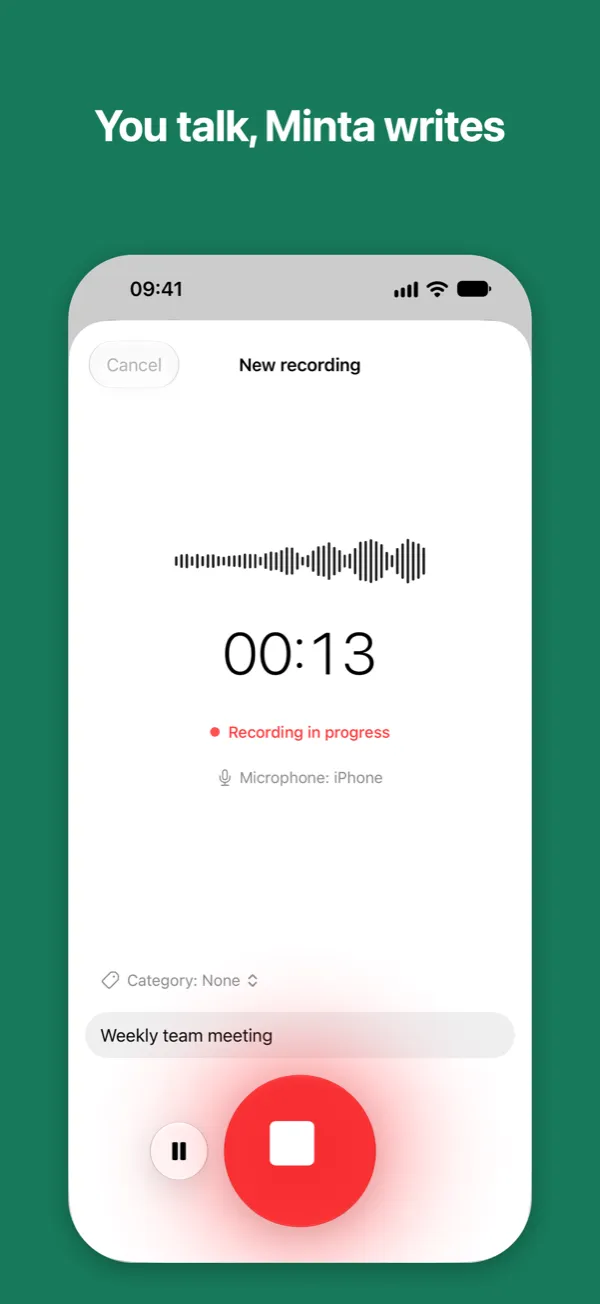
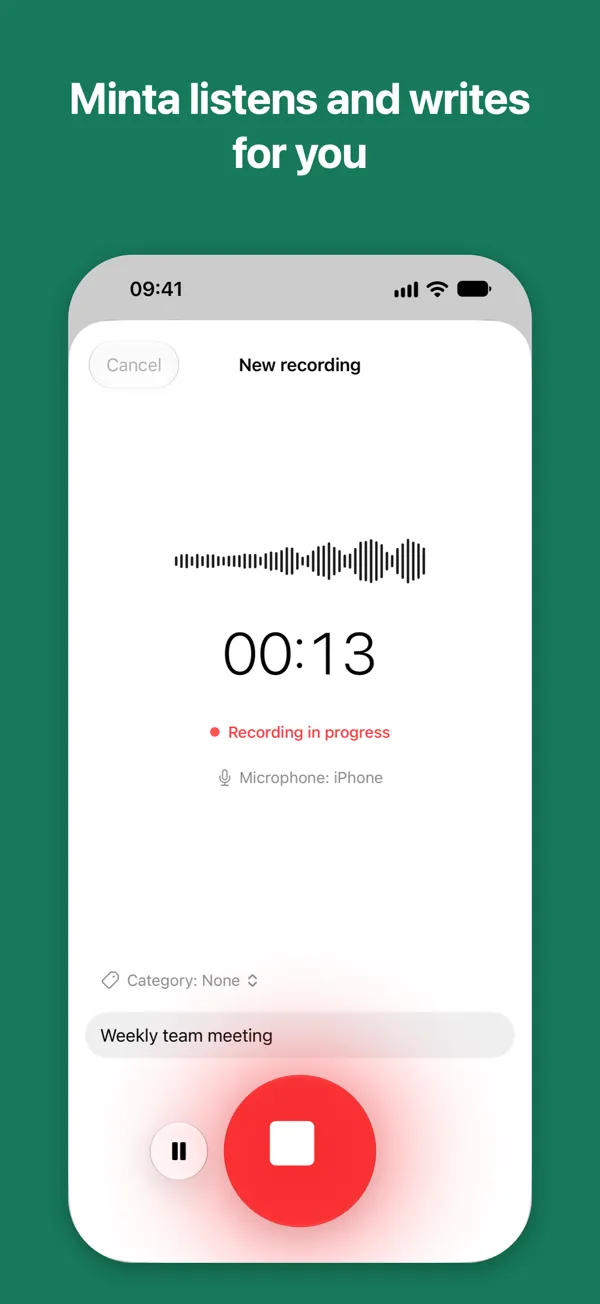
Minta: motto «ascolta e scrive per te» (#45)
* Minta: il motto nuovo «Minta ascolta e scrive per te» / «Minta listens and writes for you» (titolo, h1, prima schermata e didascalia)

* Home: «App per iPhone che ascoltano e scrivono per te» / «iPhone apps that listen and write for you» al posto di «parlando, non scrivendo»

---------

Changed region(s): [[0.12, 0.0613, 0.9, 0.1534], [0.54, 0.3988, 0.69, 0.4601]]

diff --git a/src/testi/minta.ts b/src/testi/minta.ts
@@ -1,6 +1,7 @@
 // I testi della pagina di Minta, in inglese e in italiano.
 //
-// Riscritti il 25 novembre 2026 (decisione del proprietario) partendo dalla descrizione
+// Riscritti il 25 novembre 2026 (decisione del proprietario; motto «Minta ascolta e scrive per te»
+// dello stesso giorno, al posto di «Tu parli, Minta scrive») partendo dalla descrizione
 // dello Store approvata e caricata il 17 novembre (MintaApp/Documentation/
 // APPSTORE-TESTI-DEFINITIVI-2026-10-25.md), con i fatti verificati sul codice dell'app:
 // otto tipi gratuiti su Private Cloud Compute (FormatAvailability.freeOnPrivateCloud), circa
@@ -52,7 +53,7 @@ const nomiSchermate = [
 // Le didascalie delle schermate dello Store (MintaApp/Minta/Tools/appstore-captions.json).
 const didascalie = {
   en: [
-    'You talk, Minta writes',
+    'Minta listens and writes for you',
     'Minutes with decisions and tasks',
     'Study notes, formulas included',
     'Who said what, by name',
@@ -61,7 +62,7 @@ const didascalie = {
     'Export to PDF or Word',
   ],
   it: [
-    'Tu parli, Minta scrive',
+    'Minta ascolta e scrive per te',
     'Verbali con decisioni e compiti',
     'Appunti di studio, formule comprese',
     'Chi ha detto cosa, con i nomi',
@@ -80,10 +81,10 @@ function schermate(lingua: Lingua): Schermata[] {
 
 export const testiMinta: Record<Lingua, TestiMinta> = {
   en: {
-    titolo: 'Minta — You talk. Minta writes. | TROVA.ME',
+    titolo: 'Minta — listens and writes for you | TROVA.ME',
     descrizione:
       'Minta records a meeting, a lecture or an idea, writes down everything that was said and turns it into the document you need. Free with Apple Intelligence.',
-    h1: 'You talk. Minta writes.',
+    h1: 'Minta listens and writes for you.',
     stato: 'In testing — not on the App Store yet.',
     apertura:
       'Every day you hear things that matter: a meeting, a lecture, an interview, an idea on the go. A few hours later, half of it is already gone.',
@@ -144,10 +145,10 @@ export const testiMinta: Record<Lingua, TestiMinta> = {
     aiutoLink: 'Minta support',
   },
   it: {
-    titolo: 'Minta — Tu parli, lei scrive. | TROVA.ME',
+    titolo: 'Minta — ascolta e scrive per te | TROVA.ME',
     descrizione:
       'Minta registra una riunione, una lezione o un’idea, scrive tutto quello che è stato detto e ne fa il documento che ti serve. Gratis con Apple Intelligence.',
-    h1: 'Minta: tu parli, lei scrive.',
+    h1: 'Minta ascolta e scrive per te.',
     stato: 'In prova — non ancora sull’App Store.',
     apertura:
       'Ogni giorno ascolti cose importanti: una riunione, una lezione, un’intervista, un’idea al volo. Qualche ora dopo, metà l’hai già dimenticata.',
